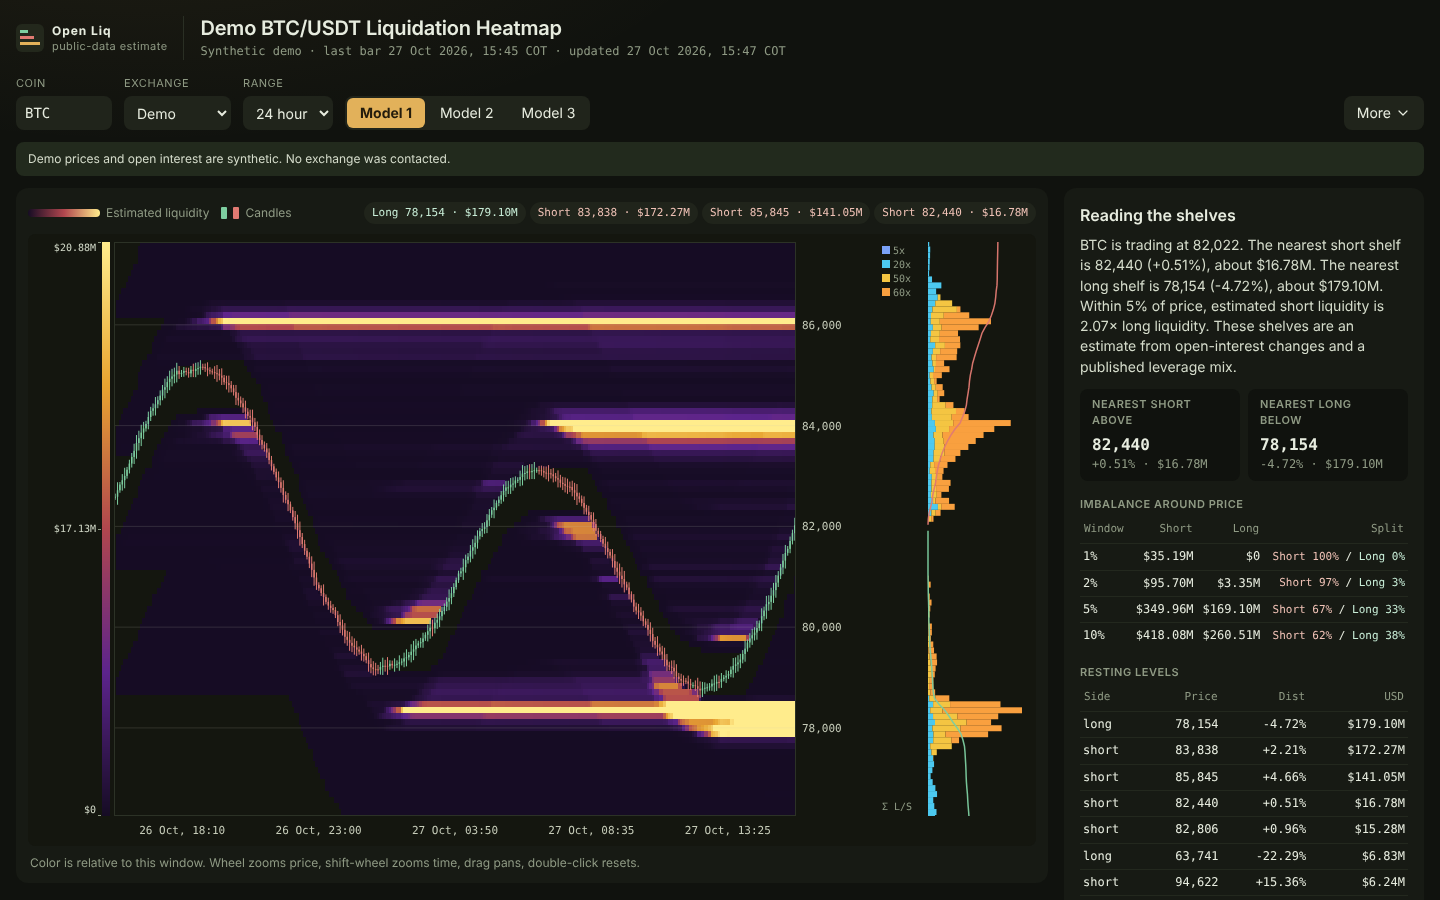
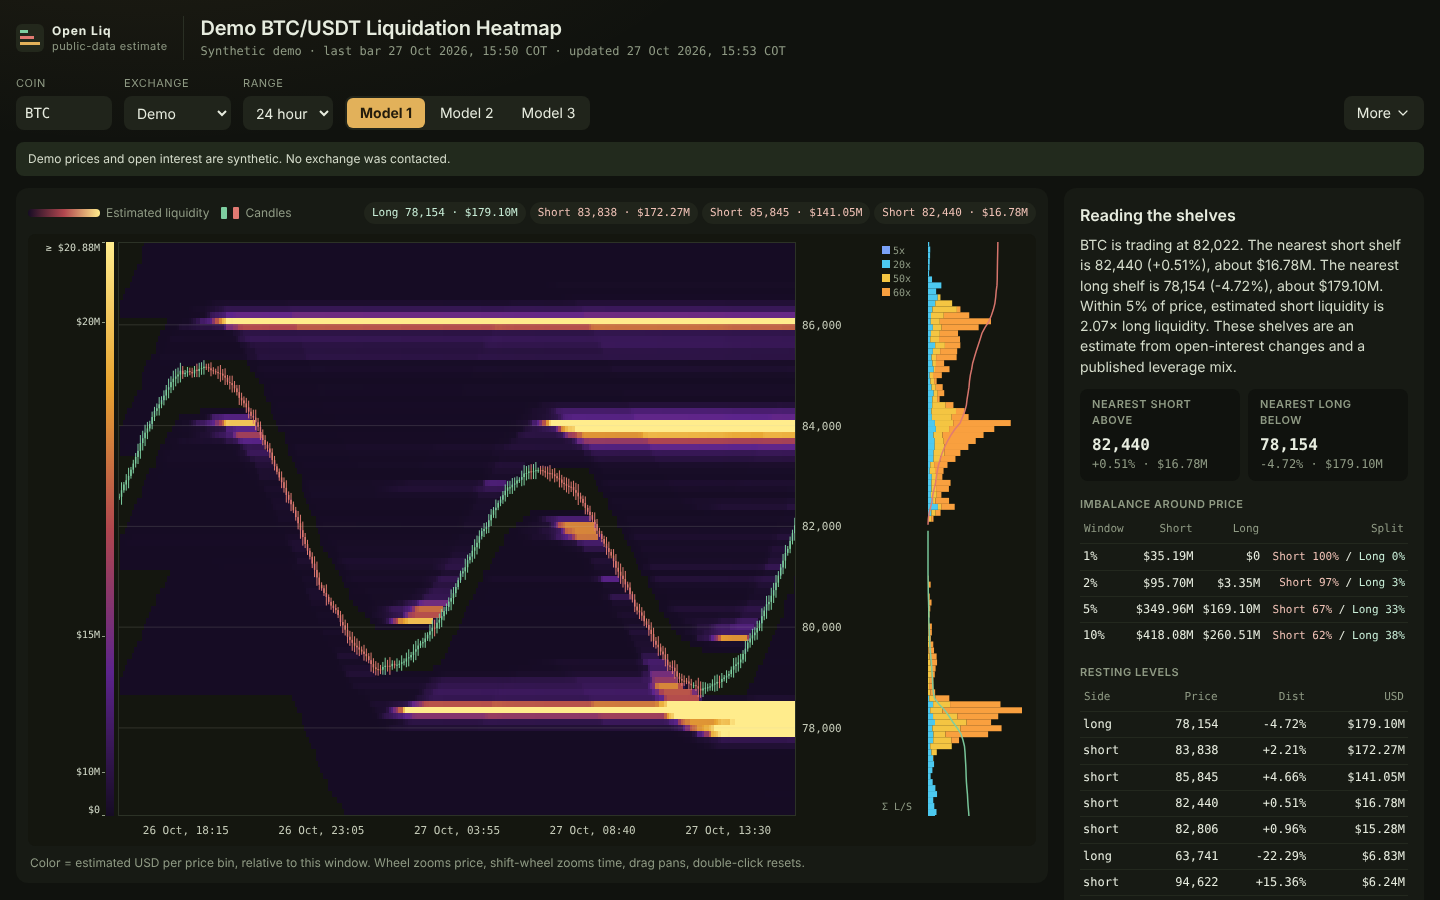
fix(ui): honest color-bar ticks and smoke checks that can fail
- Color bar: round-USD ticks from niceTicks(0, vmax) placed where shade()
  colors that value, (v / vmax) ** gamma; "$0" at the bottom, "≥ $vmax" at
  the top since values above the robust max are clipped; overlapping labels
  are skipped. Caption names the unit: estimated USD per price bin.
- Ratios below 0.1 read "< 0.1×".
- A failed load puts the coin field back to the last coin that loaded.
- Smoke: readableRatios is called directly; the replay-key guard is tested
  with a stand-in replay plus a positive control; the request URLs are
  recorded before rewriting and OKX/All-venues must send no bar or asof.

Claude-Session: https://claude.ai/code/session_01CL4afArt3PdxEjUJV8S1bi

diff --git a/web/app.js b/web/app.js
@@ -136,6 +136,11 @@ function fmtUsd(value) {
   return sign + "$" + abs.toFixed(0);
 }
 
+// Like fmtUsd, without trailing zeros: "$5M", "$2.5M", "$20.88M".
+function fmtUsdShort(value) {
+  return fmtUsd(value).replace(/\.?0+([KMB])$/, "$1");
+}
+
 function fmtPx(value) {
   const v = Number(value);
   if (!Number.isFinite(v)) return "—";
@@ -186,7 +191,7 @@ function escapeHtml(text) {
 
 function layoutFor(w, h) {
   const narrow = w < 520;
-  const scaleW = narrow ? 66 : 86;
+  const scaleW = narrow ? 70 : 90;
   const priceW = narrow ? 52 : 82;
   const liqW = state.showMap ? (narrow ? 46 : 150) : 0;
   const timeH = 30;
@@ -378,6 +383,12 @@ function fail(message) {
   $("resting").textContent = "";
   $("tags").innerHTML = "";
   // The title keeps naming the last map that loaded; only success changes it.
+  // The coin field follows it, so a bad coin does not stay typed in.
+  if (state.goodCoin && state.coin !== state.goodCoin) {
+    state.coin = state.goodCoin;
+    $("coin").value = state.coin;
+    persist();
+  }
   $("asof").textContent = $("title").dataset.loaded ? "This request failed · the title names the last map that loaded" : "No map loaded";
   drawMessage(message);
 }
@@ -415,6 +426,7 @@ function applyPayload(data) {
   clampView();
   $("title").textContent = data.title;
   $("title").dataset.loaded = "1";
+  state.goodCoin = data.coin;
   document.title = data.title + " · Open Liq";
   const sourceNames = {
     okx: "OKX live",
@@ -476,12 +488,14 @@ function splitHtml(shortUsd, longUsd) {
 function fmtRatio(ratio) {
   const r = Number(ratio);
   if (!Number.isFinite(r)) return "—";
-  return r > 10 ? "> 10×" : r.toFixed(2) + "×";
+  if (r > 10) return "> 10×";
+  if (r < 0.1) return "< 0.1×";
+  return r.toFixed(2) + "×";
 }
 
-// The server writes ratios like "553.84×"; above 10 they read "> 10×".
+// The server writes ratios like "553.84×"; above 10 they read "> 10×", below 0.1 "< 0.1×".
 function readableRatios(text) {
-  return String(text).replace(/(\d+(?:\.\d+)?)×/g, (match, num) => (Number(num) > 10 ? fmtRatio(num) : match));
+  return String(text).replace(/(\d+(?:\.\d+)?)×/g, (match, num) => (Number(num) > 10 || Number(num) < 0.1 ? fmtRatio(num) : match));
 }
 
 function levelHtml(level) {
@@ -738,19 +752,33 @@ function drawScale(ctx, L) {
     ctx.fillStyle = `rgb(${rgb[0]},${rgb[1]},${rgb[2]})`;
     ctx.fillRect(barX, L.plotY + y, barW, 1);
   }
-  // Ticks sit at 0, 0.5 and 1 of the bar; each label is the USD that shade() maps there.
-  const gamma = state.gamma || gammaOf(state.threshold);
-  const usdAt = (intensity) => (intensity <= 0 ? 0 : state.vmax * Math.pow(intensity, 1 / gamma));
+  // Round-USD ticks sit where shade() puts that value: height = (v / vmax) ** gamma.
+  // The top reads "≥" because rebuildHeat clips values above the robust max.
+  const vmax = state.vmax;
+  const narrow = L.width < 520;
+  const yAt = (usd) => L.plotY + (1 - shade(usd, vmax, state.threshold)) * L.plotH;
   ctx.font = "10px ui-monospace, monospace";
   ctx.textAlign = "right";
   ctx.textBaseline = "middle";
-  [1, 0.5, 0].forEach((intensity) => {
-    const y = L.plotY + (1 - intensity) * L.plotH;
+  const placed = [];
+  const label = (text, y, labelY) => {
+    if (placed.some((other) => Math.abs(other - labelY) < 13)) return;
+    placed.push(labelY);
     ctx.fillStyle = "#8f9a84";
-    ctx.fillRect(barX - 4, Math.round(y) - (intensity === 0 ? 1 : 0), 3, 1);
+    ctx.fillRect(barX - 4, Math.min(Math.round(y), L.plotY + L.plotH - 1), 3, 1);
     ctx.fillStyle = "#d5dccb";
-    ctx.fillText(fmtUsd(usdAt(intensity)), barX - 6, clamp(y, L.plotY + 6, L.plotY + L.plotH - 6));
-  });
+    ctx.fillText(text, barX - 6, labelY);
+  };
+  const top = narrow ? "≥" + fmtUsdShort(vmax) : "≥ " + fmtUsdShort(vmax);
+  label(top, L.plotY, L.plotY + 6);
+  label("$0", L.plotY + L.plotH, L.plotY + L.plotH - 6);
+  niceTicks(0, vmax, 4)
+    .filter((usd) => usd > 0 && usd < vmax)
+    .reverse()
+    .forEach((usd) => {
+      const y = yAt(usd);
+      label(fmtUsdShort(usd), y, clamp(y, L.plotY + 6, L.plotY + L.plotH - 6));
+    });
   ctx.textBaseline = "alphabetic";
 }
 

diff --git a/web/index.html b/web/index.html
@@ -181,7 +181,7 @@
             <button type="button" id="intro-close" class="btn">Got it</button>
           </aside>
         </div>
-        <p class="caption">Color is relative to this window. <span class="hint">Wheel zooms price, shift-wheel zooms time, drag pans, double-click resets.</span></p>
+        <p class="caption">Color = estimated USD per price bin, relative to this window. <span class="hint">Wheel zooms price, shift-wheel zooms time, drag pans, double-click resets.</span></p>
       </section>
 
       <aside class="panel" id="panel">
